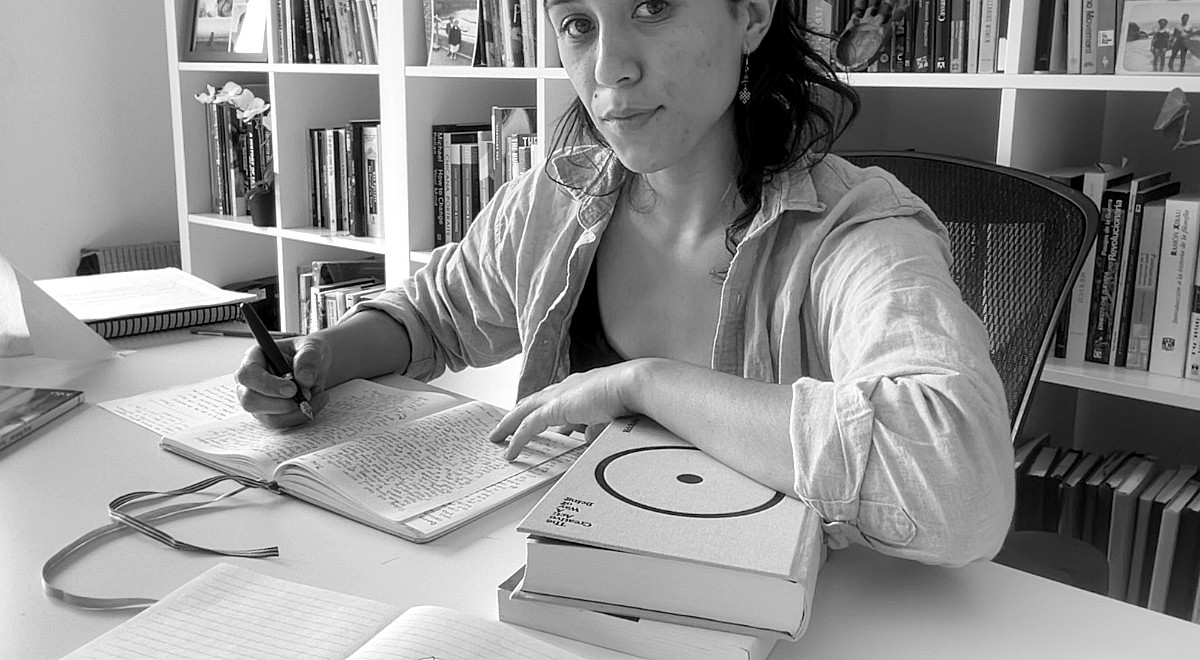
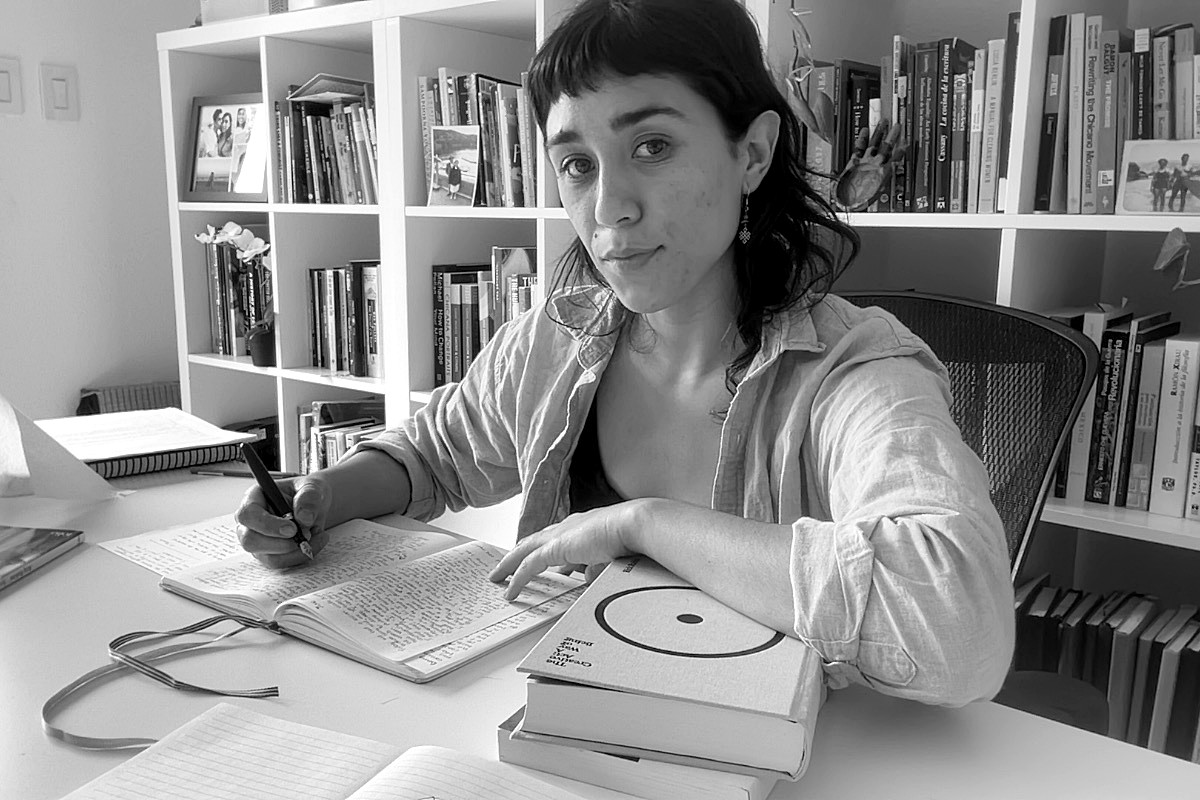
Bio: restore third-person text, switch to photo #2 (direct eye contact, full B&W)

diff --git a/pages/bio.md b/pages/bio.md
@@ -9,14 +9,10 @@ page_class: page-bio
 
 <div class="bio-bilingual">
   <div class="bio-col">
-    <p class="bio-intro">Soy escritora, profesora y amante de los perros. Nací en México en 1990. Llevo más de quince años viviendo en distintas partes del mundo. Escribo sobre el desarraigo, la migración y las formas en que las heridas familiares y estructurales moldean los vínculos afectivos entre generaciones.</p>
-
-    <p class="bio-credentials">Tengo un doctorado en Escritura Creativa y Estudios Hispánicos por la Universidad de Houston, especializándome en literatura de migración y escritura bilingüe. He sido escritora residente en Art Omi (Nueva York), Santa Maddalena (Italia), Ucross (Wyoming) y la Ex-Hacienda Guadalupe (México). Mis textos han aparecido en la Revista de la Universidad de México, Tierra Adentro y Rio Grande Review, y forman parte de la antología <em>Machetes Under Our Beds: An International Anthology of Words and Writings by Daughters of Latin America</em>. En 2019 recibí el <a href="https://borchardlit.org/ganadoras" target="_blank">Premio Internacional de Literatura Aura Estrada</a>. En 2023, la Feria Internacional del Libro de Guadalajara me seleccionó como una de las <a href="https://elpais.com/mexico/2023-12-03/siete-promesas-de-la-literatura-mexicana-segun-la-fil-de-guadalajara.html" target="_blank">siete promesas de la literatura mexicana</a>. Mi primera novela, <em>El fin del verano</em>, fue publicada por Almadía en 2026.</p>
+    <p class="bio-intro">Natalia Trigo obtuvo el Premio Internacional de Literatura Aura Estrada en 2019. Tiene un doctorado en Escritura Creativa y Estudios Hispánicos por la Universidad de Houston, especializándose en literatura de migración y escritura bilingüe. Ha sido escritora residente en Art Omi (Nueva York), Santa Maddalena (Italia), Ucross (Wyoming) y Ex-Hacienda Guadalupe (México). Su trabajo ha aparecido en la Revista de la Universidad de México, Tierra Adentro y Rio Grande Review, así como en antologías internacionales, incluyendo <em>Machetes Under Our Beds: An International Anthology of Words and Writings by Daughters of Latin America</em>. En 2023 fue seleccionada por la <a href="https://elpais.com/mexico/2023-12-03/siete-promesas-de-la-literatura-mexicana-segun-la-fil-de-guadalajara.html" target="_blank">FIL de Guadalajara como una de las siete promesas de la literatura mexicana</a>. Su primera novela, <em>El fin del verano</em>, fue publicada por Almadía en 2026.</p>
   </div>
 
   <div class="bio-col">
-    <p class="bio-intro">I'm a writer, professor, and dog lover. I was born in Mexico in 1990. I've spent more than fifteen years living in different parts of the world. I write about displacement, belonging, and the ways family and structural wounds shape the affective bonds between generations.</p>
-
-    <p class="bio-credentials">I hold a PhD in Creative Writing and Hispanic Studies from the University of Houston, specializing in migration literature and bilingual writing. I've been a writer in residence at Art Omi (New York), Santa Maddalena (Italy), Ucross (Wyoming), and Ex-Hacienda Guadalupe (Mexico). My work has appeared in the Revista de la Universidad de México, Tierra Adentro, and Rio Grande Review, and is included in the anthology <em>Machetes Under Our Beds: An International Anthology of Words and Writings by Daughters of Latin America</em>. I received the <a href="https://borchardlit.org/ganadoras" target="_blank">Premio Internacional de Literatura Aura Estrada</a> in 2019. In 2023, the FIL Guadalajara selected me as one of the <a href="https://elpais.com/mexico/2023-12-03/siete-promesas-de-la-literatura-mexicana-segun-la-fil-de-guadalajara.html" target="_blank">seven most promising voices in Mexican literature</a>. My first novel, <em>El fin del verano</em>, was published by Almadía in 2026.</p>
+    <p class="bio-intro">Natalia Trigo received the <a href="https://borchardlit.org/ganadoras" target="_blank">Premio Internacional de Literatura Aura Estrada</a> in 2019. She holds a PhD in Creative Writing and Hispanic Studies from the University of Houston, specializing in migration literature and bilingual writing. She has been a writer in residence at Art Omi (New York), Santa Maddalena (Italy), Ucross (Wyoming), and Ex-Hacienda Guadalupe (Mexico). Her work has appeared in the Revista de la Universidad de México, Tierra Adentro, and Rio Grande Review, as well as in international anthologies, including <em>Machetes Under Our Beds: An International Anthology of Words and Writings by Daughters of Latin America</em>. In 2023 she was selected by the <a href="https://elpais.com/mexico/2023-12-03/siete-promesas-de-la-literatura-mexicana-segun-la-fil-de-guadalajara.html" target="_blank">FIL Guadalajara as one of the seven most promising voices in Mexican literature</a>. Her first novel, <em>El fin del verano</em>, was published by Almadía in 2026.</p>
   </div>
 </div>
